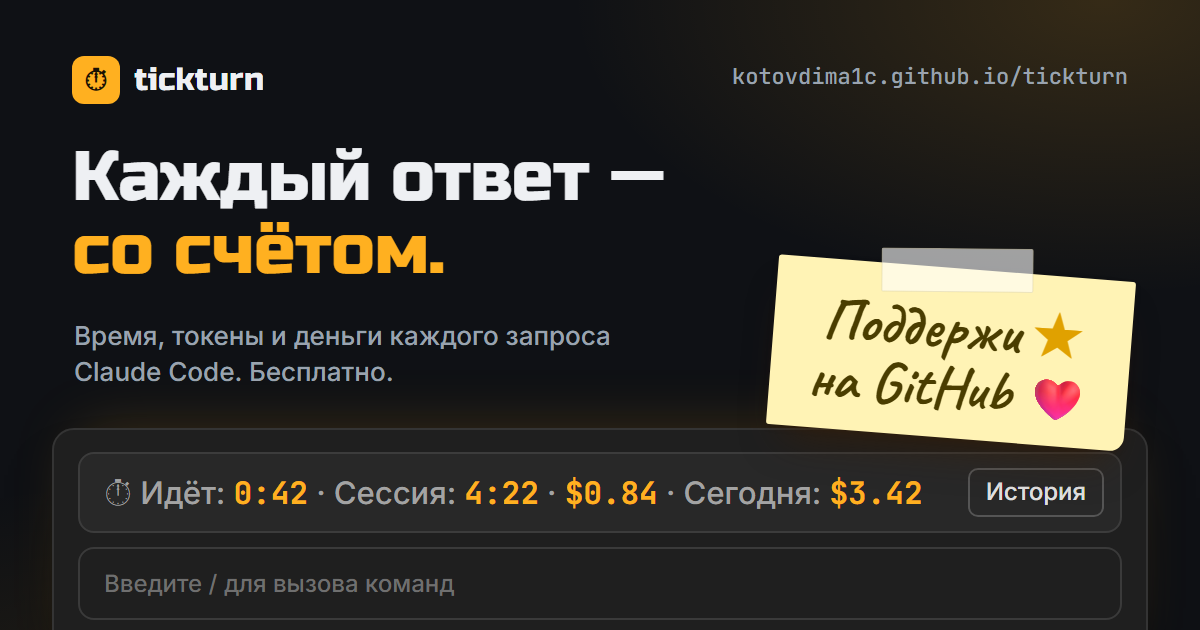
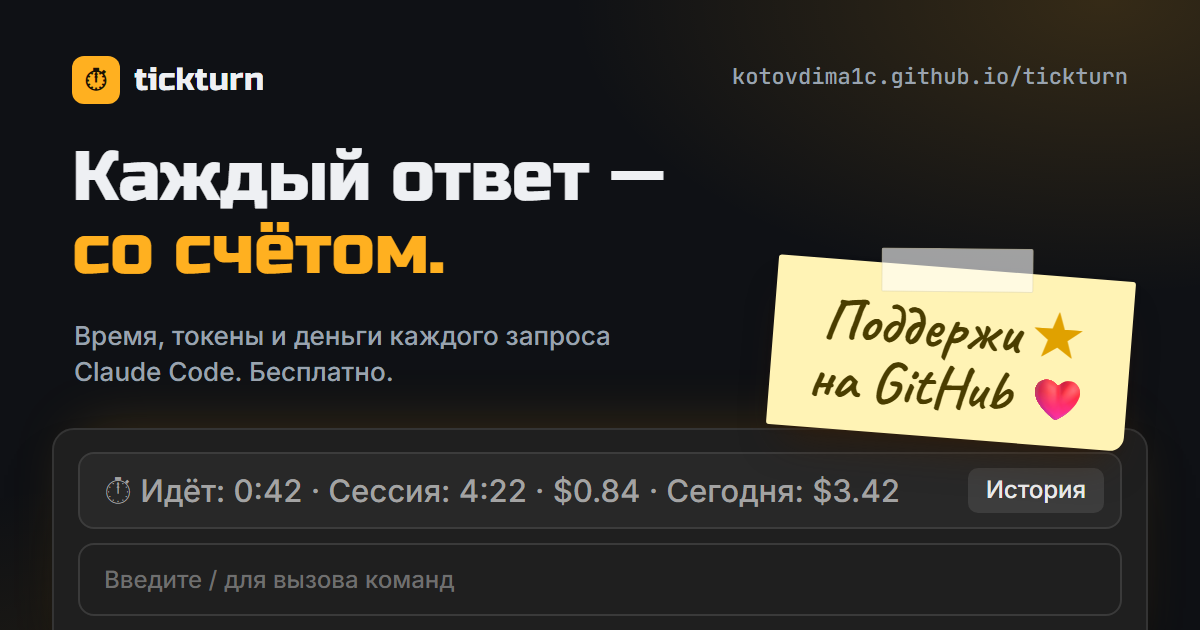
Show the mod's band and pane in their real grey colours on the site and the link preview
Amber stays in the site's own design; the product mocks now look as they do
in Claude Code, without coloured numbers.

Changed region(s): [[0.0925, 0.754, 0.7708, 0.8143], [0.0617, 0.9048, 0.925, 0.9952], [0.0617, 0.754, 0.925, 0.8746]]

diff --git a/docs/index.html b/docs/index.html
@@ -105,15 +105,16 @@
   }
   .bubble { margin-left: auto; width: fit-content; max-width: 86%; background: #2d2d2d; border-radius: 14px; padding: 10px 16px; color: #ececec; }
   .reply { color: #a8a8a8; margin: 16px 2px 20px; }
-  .reply::after { content: "▍"; color: var(--accent); margin-left: 2px; animation: blink 1s steps(1) infinite; }
+  .reply::after { content: "▍"; color: #8a8a8a; margin-left: 2px; animation: blink 1s steps(1) infinite; }
   @keyframes blink { 50% { opacity: 0; } }
   .band {
     display: flex; align-items: center; gap: 12px; background: #262626; border: 1px solid #383838; border-radius: 12px;
     padding: 9px 9px 9px 14px; font: 400 14px/1.4 var(--body); color: #9b9b9b;
   }
   .band .text { flex: 1; min-width: 0; }
-  .band b { font-weight: 500; font-family: var(--mono); font-size: 13.5px; color: var(--accent); font-variant-numeric: tabular-nums; }
-  .band .btn-hist { flex: none; border: 1px solid #4a4a4a; border-radius: 7px; padding: 5px 10px; color: #dcdcdc; font-size: 13px; }
+  /* Макеты мода — в его настоящих цветах: серый текст без акцентов, как в Claude Code */
+  .band b { font-weight: 400; color: inherit; font-variant-numeric: tabular-nums; }
+  .band .btn-hist { flex: none; background: #3a3a3a; border-radius: 7px; padding: 5px 11px; color: #e6e6e6; font-size: 13px; }
   .input { margin-top: 10px; border: 1px solid #3a3a3a; border-radius: 12px; padding: 12px 16px; color: #777; display: flex; justify-content: space-between; }
   .meta { display: flex; justify-content: space-between; color: #777; font-size: 13px; margin: 10px 4px 0; }
   .shot-caption { margin: 14px 4px 0; font: 400 13px/1.5 var(--mono); color: var(--ink-dim); }
@@ -153,13 +154,13 @@
     background: #1f1f1f; border: 1px solid #333; border-radius: 14px; padding: 18px 22px 20px; color: #e4e4e4;
     font: 400 15px/1.5 var(--body); box-shadow: 0 30px 60px -36px rgba(0, 0, 0, .9);
   }
-  .pane .title { color: #9b9b9b; margin-bottom: 12px; display: flex; justify-content: space-between; }
+  .pane .title { color: #e4e4e4; margin-bottom: 12px; display: flex; justify-content: space-between; }
   .pane .row { display: flex; justify-content: space-between; gap: 14px; padding: 4px 0; }
   .pane .row span:first-child { min-width: 0; overflow: hidden; text-overflow: ellipsis; white-space: nowrap; }
-  .pane .row span:last-child { flex: none; font: 400 14px/1.6 var(--mono); color: #cfcfcf; font-variant-numeric: tabular-nums; }
+  .pane .row span:last-child { flex: none; color: #e4e4e4; font-variant-numeric: tabular-nums; }
   .pane .mark-x { color: #9b9b9b; }
-  .pane .total { margin-top: 12px; padding-top: 10px; border-top: 1px solid #333; font-weight: 600; }
-  .pane .total span:last-child { color: var(--accent); font-weight: 700; }
+  .pane .total { margin-top: 12px; font-weight: 700; color: #fff; }
+  .pane .total span:last-child { color: #fff; }
   .pane .split-t { color: #8a8a8a; font-size: 13px; margin-top: 2px; }
   .pane .day { margin-top: 10px; }
 
@@ -171,7 +172,7 @@
   .report table { border-collapse: collapse; width: 100%; margin-top: 6px; }
   .report th, .report td { text-align: left; padding: 3px 14px 3px 0; white-space: nowrap; }
   .report th { color: var(--ink-dim); font-weight: 400; }
-  .report td:nth-child(2) { color: var(--accent); }
+  .report td { color: var(--ink); }
 
   .steps { counter-reset: step; list-style: none; margin: 0; padding: 0; display: grid; gap: 30px; max-width: 780px; }
   .steps > li { counter-increment: step; display: grid; grid-template-columns: 56px 1fr; }

diff --git a/tools/og/og.html b/tools/og/og.html
@@ -55,8 +55,8 @@
     padding: 14px 16px 14px 24px; font: 500 31px/1.2 var(--body); color: #a3a3a3; white-space: nowrap;
   }
   .band .text { flex: 1; }
-  .band b { font: 700 31px/1 var(--mono); color: var(--accent); }
-  .band .hist { border: 2px solid #555; border-radius: 10px; padding: 8px 16px; color: #e0e0e0; font-size: 24px; }
+  .band b { font-weight: 500; color: inherit; }
+  .band .hist { background: #3d3d3d; border-radius: 10px; padding: 8px 18px; color: #ececec; font-size: 24px; }
   .input { margin-top: 14px; border: 2px solid #3a3a3a; border-radius: 16px; padding: 18px 24px; color: #6f6f6f; font-size: 24px; }
 
   .sticker { right: 70px; top: 268px; }
